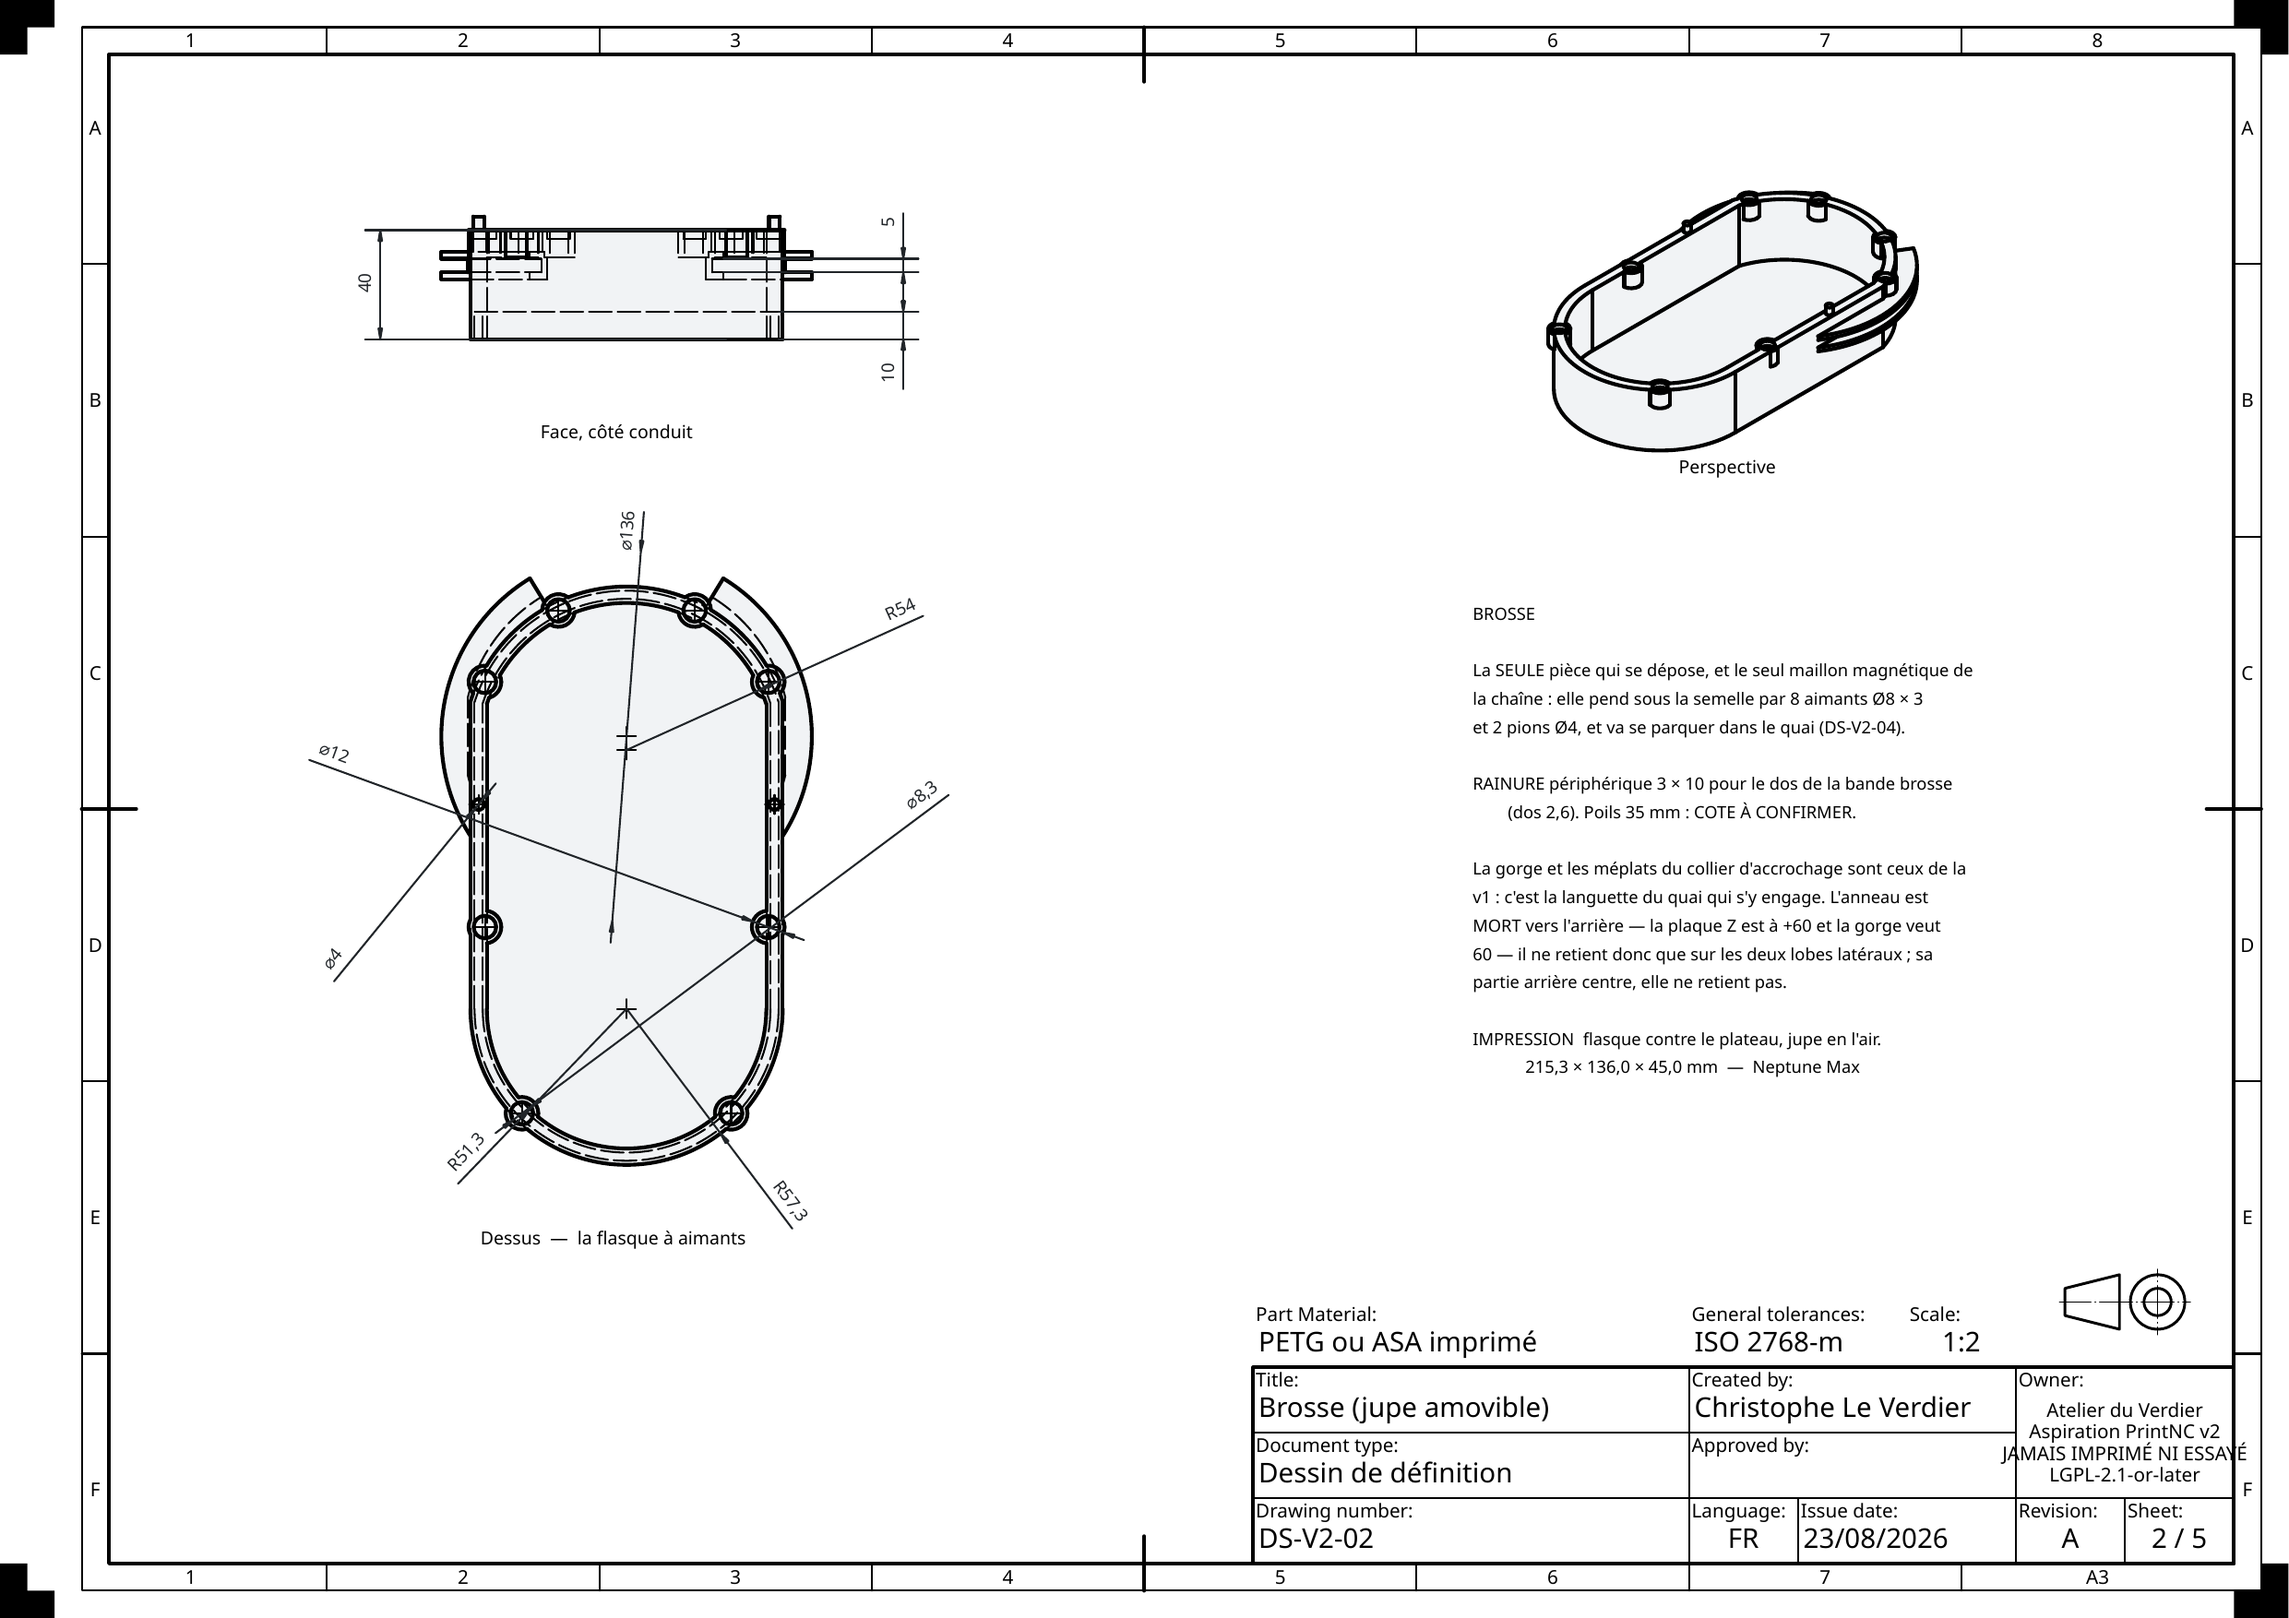
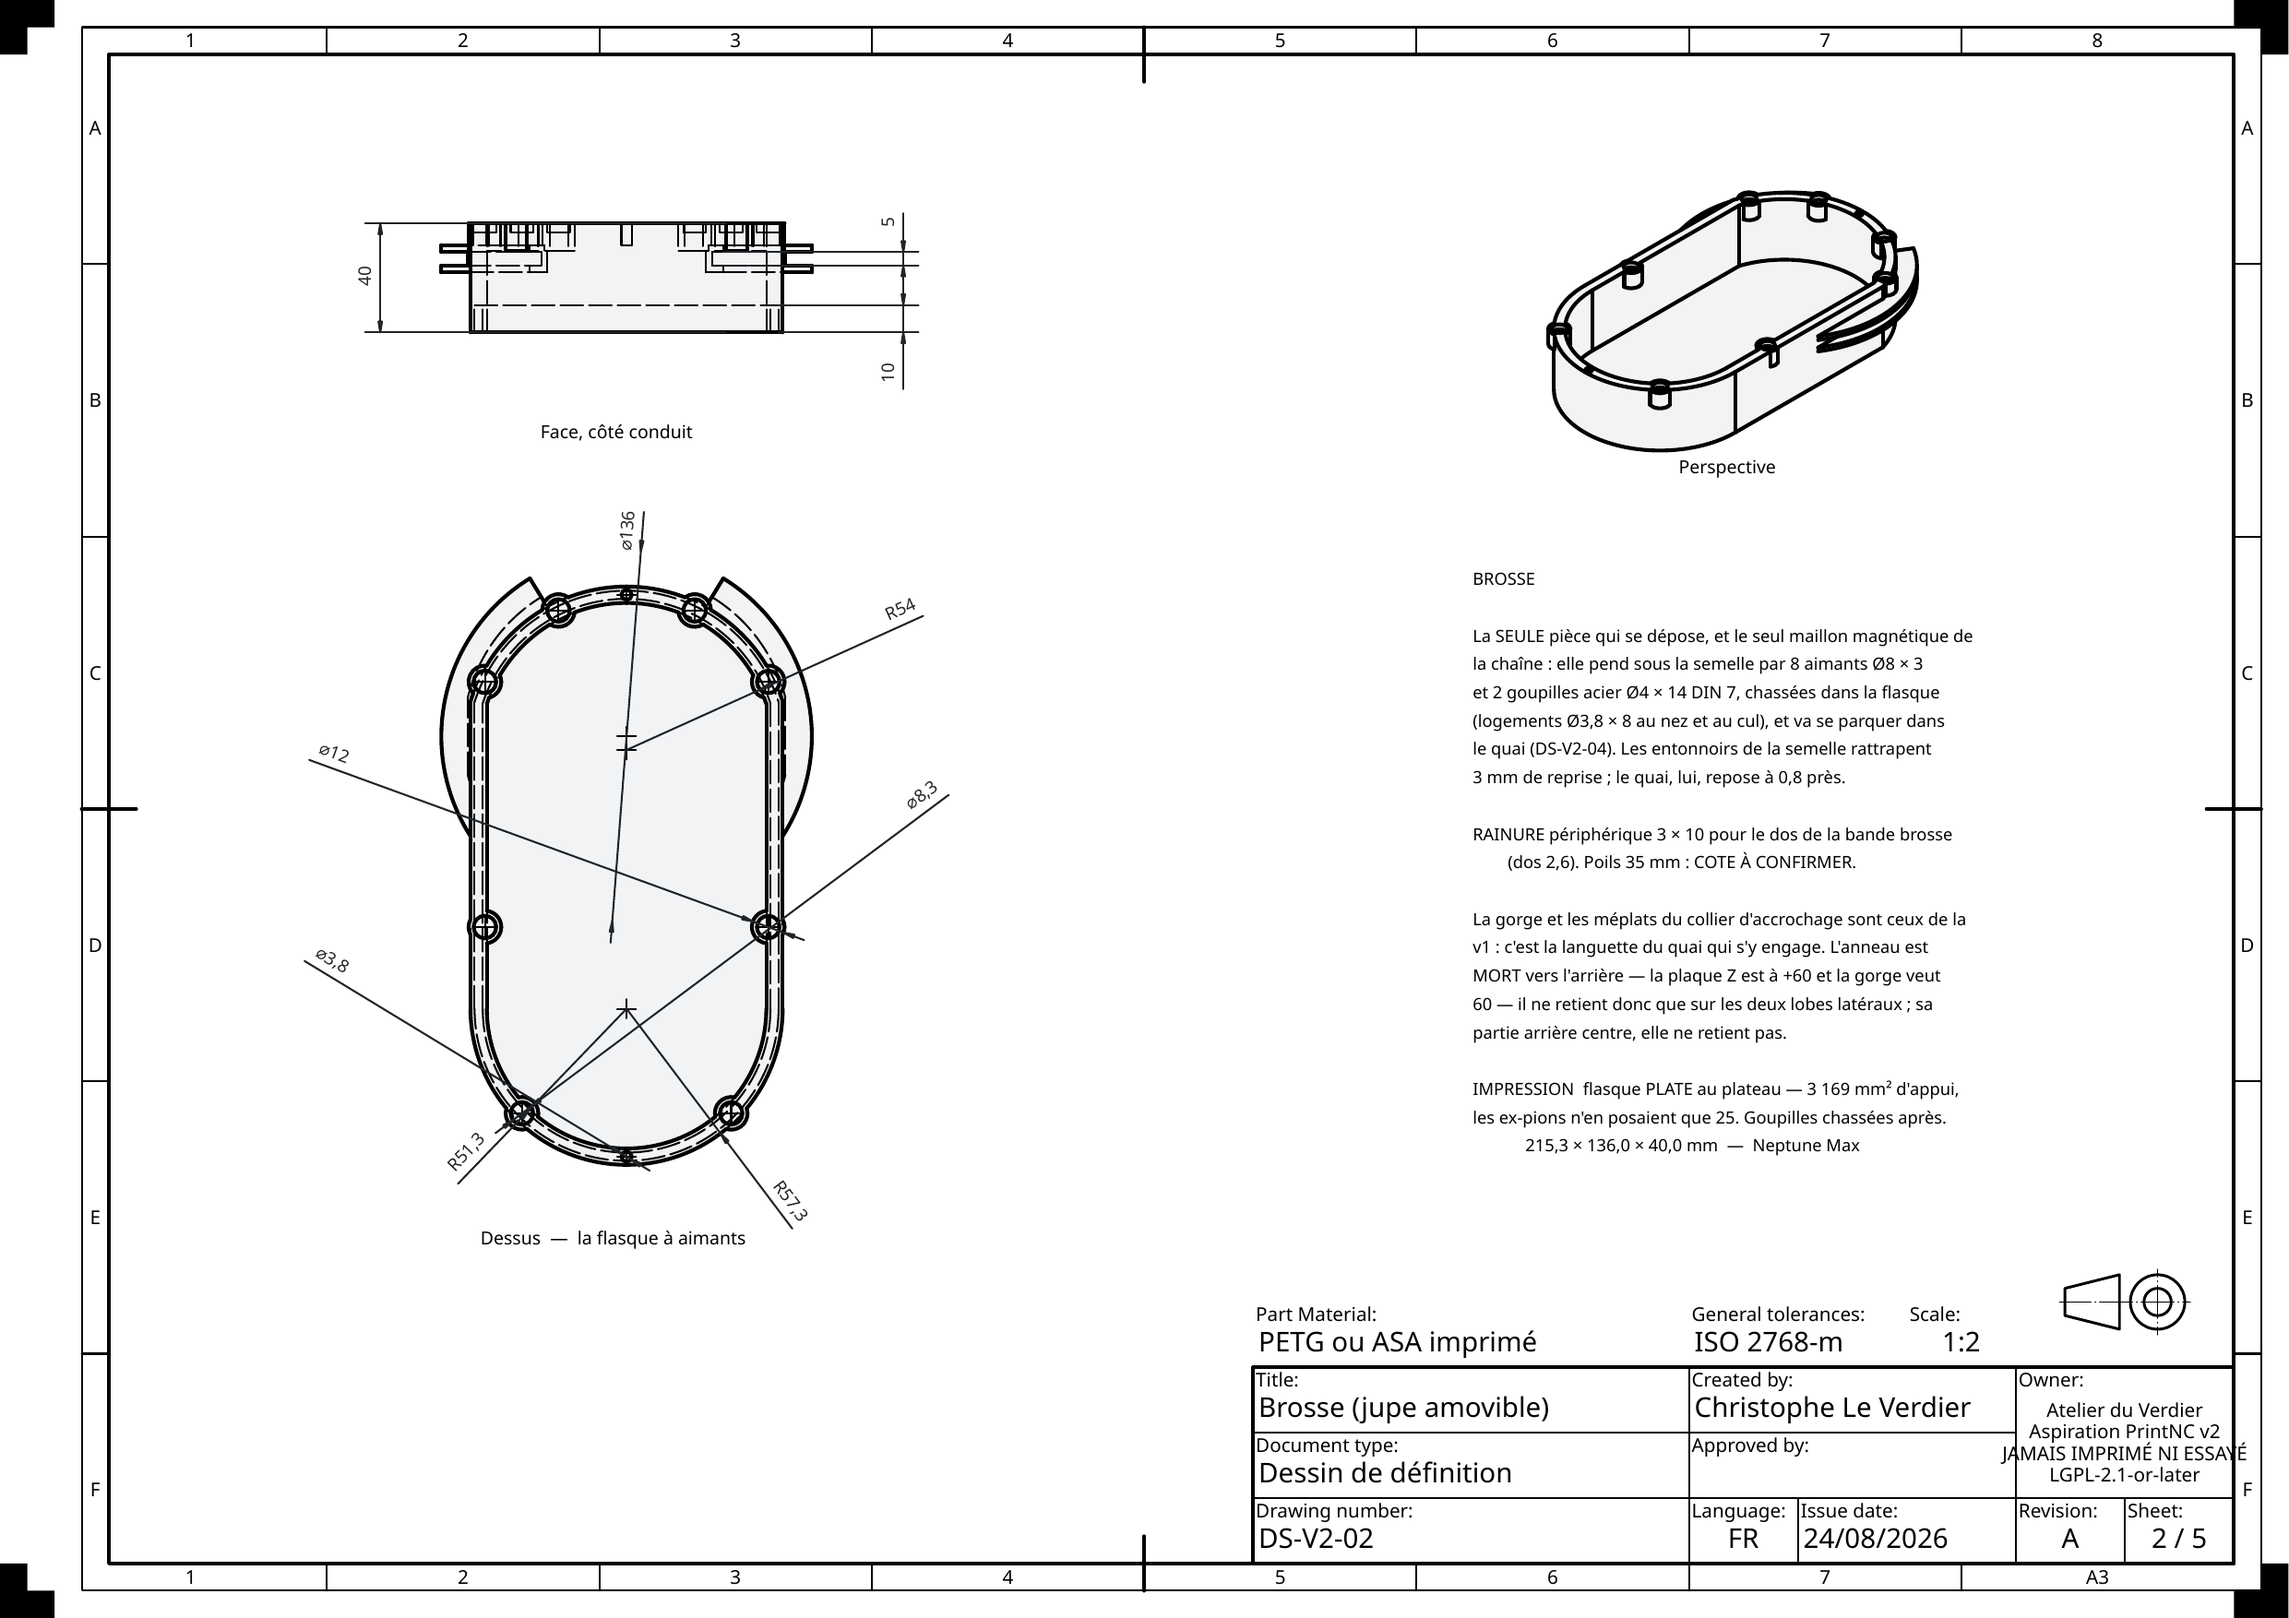
Dust shoe : les pions deviennent goupilles + entonnoirs, les planches suivent
Le depot dust-shoe a remplace ce matin les pions moules par des goupilles
acier guidees par des entonnoirs creuses sous la semelle (la reprise au
quai tolere 0,8 mm, l'entonnoir en rattrape 3). La carte de la brosse le
raconte et lit les nouvelles cotes dans le tableur (bouche Ø10, siege
Ø4,4) — l'alias pion_d n'existe plus. Les cinq images de planches sont
reprises des PDF regeneres.

Changed region(s): [[0.6207, 0.3694, 0.869, 0.7081], [0.1862, 0.1231, 0.4035, 0.2155], [0.1241, 0.5849, 0.1552, 0.6157]]

diff --git a/site/contenu/dust-shoe.html b/site/contenu/dust-shoe.html
@@ -217,7 +217,11 @@
           La jupe à poils, parois de {{fcstd:dustshoe:@jupe_ep}} mm, avec une rainure
           périphérique de {{fcstd:dustshoe:@brosse_rainure}} mm qui reçoit le dos de la
           bande brosse du commerce. Elle pend sous la semelle par huit aimants et deux
-          pions Ø{{fcstd:dustshoe:@pion_d}}, et c'est <b>la seule pièce qui se parque</b>.
+          goupilles acier chassées dans la flasque, guidées par des entonnoirs
+          creusés sous la semelle (bouche Ø{{fcstd:dustshoe:@entonnoir_bouche}},
+          siège Ø{{fcstd:dustshoe:@siege_d|1}}) : la reprise au quai tolère
+          0,8&nbsp;mm de décalage, l'entonnoir en rattrape 3. C'est <b>la seule
+          pièce qui se parque</b>.
         </p>
       </div>
 
